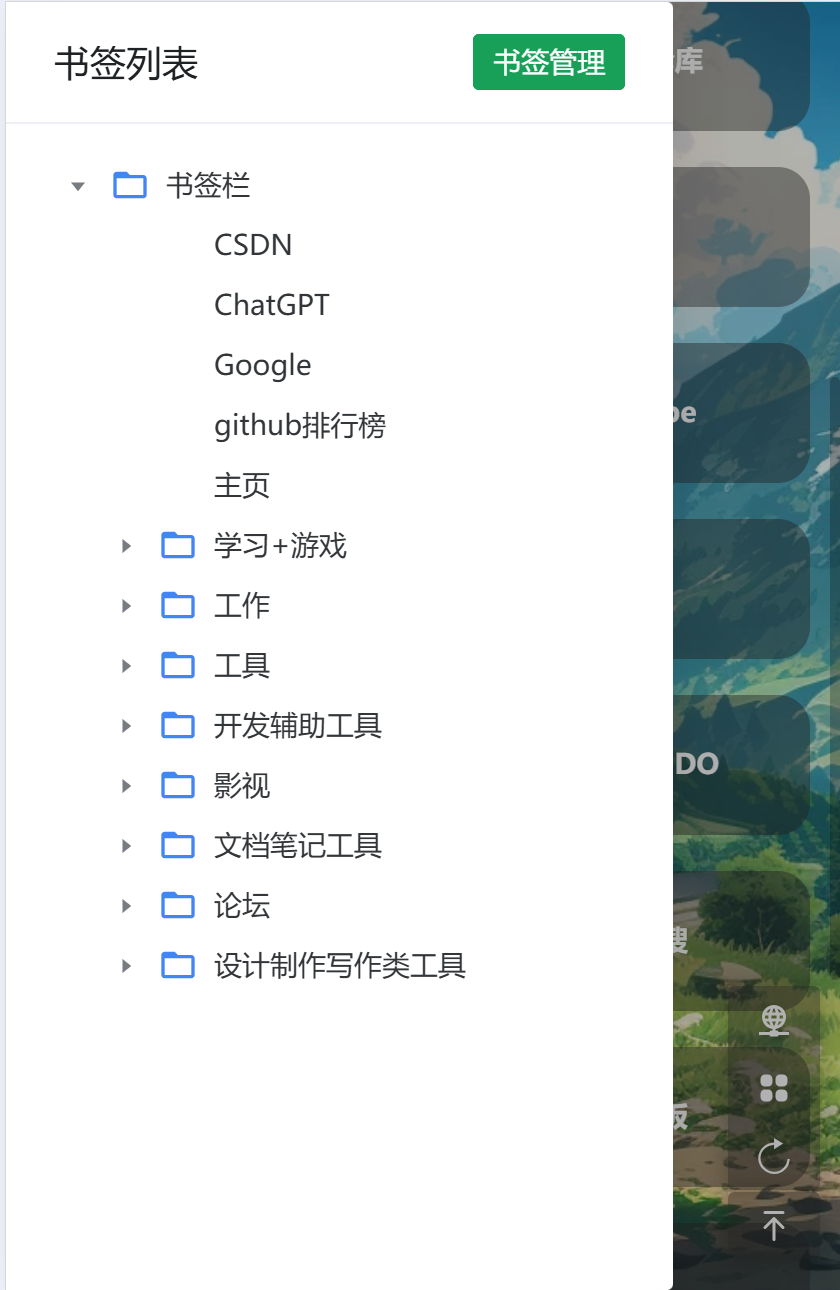
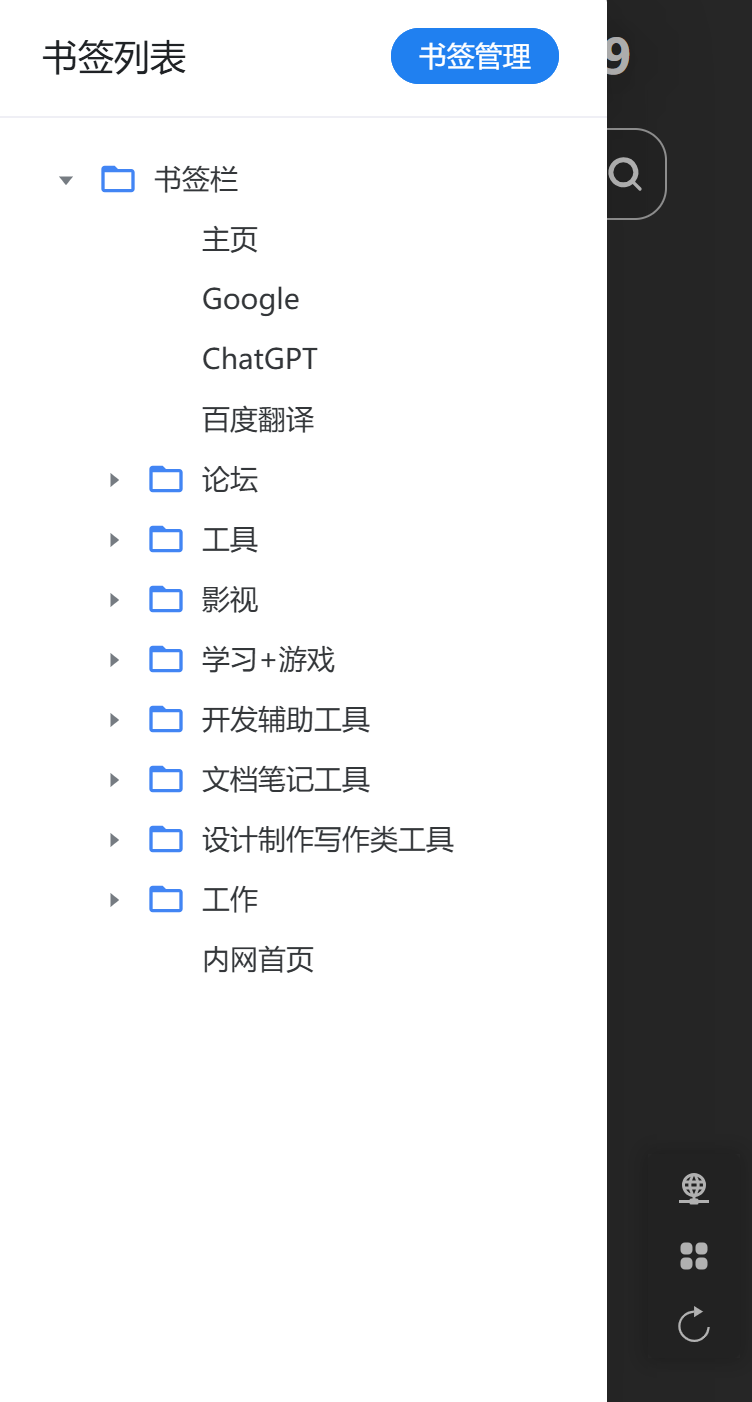
样式优化

diff --git a/src/views/bookmark-manager/index.vue b/src/views/bookmark-manager/index.vue
@@ -6,60 +6,56 @@
 		<!-- 顶部标题栏 -->
 		<div class="p-4 border-b flex items-center justify-between bg-gray-50 dark:bg-gray-800 border-gray-200 dark:border-gray-700 relative">
 			<!-- 移动端左栏展开按钮 -->
-			<NButton
+			<div
 				v-if="isMobile"
 				@click="togglePanel"
-				type="primary"
-				ghost
-				size="small"
-				class="flex items-center gap-1 text-blue-600 hover:bg-blue-100 transition-colors border border-blue-200"
+				class="flex items-center justify-center w-10 h-10 rounded-full bg-transparent text-gray-700 dark:text-white cursor-pointer transition-all hover:bg-gray-100 dark:hover:bg-gray-700"
 			>
-				<svg xmlns="http://www.w3.org/2000/svg" class="h-4 w-4" fill="none" viewBox="0 0 24 24" stroke="currentColor">
+				<svg xmlns="http://www.w3.org/2000/svg" class="h-6 w-6" fill="none" viewBox="0 0 24 24" stroke="currentColor">
 					<path stroke-linecap="round" stroke-linejoin="round" stroke-width="2" d="M4 6h16M4 12h16M4 18h16" />
 				</svg>
-			</NButton>
+			</div>
 
-			<NButton
+			<div
 				@click="goBackToHome"
-				type="primary"
-				ghost
-				size="small"
-				class="flex items-center gap-1 text-blue-600 hover:bg-blue-100 transition-colors border border-blue-200"
+				class="flex items-center justify-center w-10 h-10 rounded-full bg-transparent text-gray-700 dark:text-white cursor-pointer transition-all hover:bg-gray-100 dark:hover:bg-gray-700"
 			>
-				<svg xmlns="http://www.w3.org/2000/svg" class="h-4 w-4" fill="none" viewBox="0 0 24 24" stroke="currentColor">
+				<svg xmlns="http://www.w3.org/2000/svg" class="h-6 w-6" fill="none" viewBox="0 0 24 24" stroke="currentColor">
 					<path stroke-linecap="round" stroke-linejoin="round" stroke-width="2" d="M15 19l-7-7 7-7" />
 				</svg>
-				{{ t('bookmarkManager.back') }}
-			</NButton>
+			</div>
 
 			<h1 class="text-xl font-bold text-gray-800 dark:text-white flex-1 text-center">{{ t('bookmarkManager.management') }}</h1>
 
-			<NButton
-				@click="createNewBookmark"
-				type="primary"
-				ghost
-				size="small"
-				class="flex items-center gap-1 text-purple-600 hover:bg-purple-100 transition-colors border border-purple-200"
-			>
-				<svg xmlns="http://www.w3.org/2000/svg" class="h-4 w-4" fill="none" viewBox="0 0 24 24" stroke="currentColor">
-					<path stroke-linecap="round" stroke-linejoin="round" stroke-width="2" d="M12 4v16m8-8H4" />
-				</svg>
-				{{ t('bookmarkManager.create') }}
-			</NButton>
-
-			<NButton
-				@click="triggerImportBookmarks"
-				type="success"
-				ghost
-				size="small"
-				:loading="uploadLoading"
-				class="flex items-center gap-1 text-green-600 hover:bg-green-100 transition-colors border border-green-200"
-			>
-				<svg xmlns="http://www.w3.org/2000/svg" class="h-4 w-4" fill="none" viewBox="0 0 24 24" stroke="currentColor">
-					<path stroke-linecap="round" stroke-linejoin="round" stroke-width="2" d="M4 16v1a3 3 0 003 3h10a3 3 0 003-3v-1m-4-4l-4 4m0 0l-4-4m4 4V4" />
-				</svg>
-				{{ t('bookmarkManager.importBookmarks') }}
-			</NButton>
+			<!-- 自定义下拉菜单 -->
+			<div class="relative custom-dropdown">
+				<div
+					class="flex items-center justify-center w-10 h-10 rounded-full bg-transparent text-gray-700 dark:text-white cursor-pointer transition-all hover:bg-gray-100 dark:hover:bg-gray-700 mr-2"
+					@click="isDropdownOpen = !isDropdownOpen"
+				>
+					<svg xmlns="http://www.w3.org/2000/svg" class="h-6 w-6" fill="none" viewBox="0 0 24 24" stroke="currentColor">
+						<path stroke-linecap="round" stroke-linejoin="round" stroke-width="2" d="M12 5v.01M12 12v.01M12 19v.01M12 6a1 1 0 110-2 1 1 0 010 2zm0 7a1 1 0 110-2 1 1 0 010 2zm0 7a1 1 0 110-2 1 1 0 010 2z" />
+					</svg>
+				</div>
+				<!-- 下拉菜单内容 -->
+				<div
+					v-if="isDropdownOpen"
+					class="absolute right-0 mt-2 w-48 bg-white dark:bg-gray-800 text-gray-700 dark:text-white rounded-md shadow-lg py-1 z-[100000]"
+				>
+					<button
+						class="block px-4 py-2 text-sm hover:bg-gray-100 dark:hover:bg-gray-700 w-full text-left"
+						@click.stop="createNewBookmark(); isDropdownOpen = false"
+					>
+						{{ t('bookmarkManager.create') }}
+					</button>
+					<button
+						class="block px-4 py-2 text-sm hover:bg-gray-100 dark:hover:bg-gray-700 w-full text-left"
+						@click.stop="triggerImportBookmarks(); isDropdownOpen = false"
+					>
+						{{ t('bookmarkManager.importBookmarks') }}
+					</button>
+				</div>
+			</div>
 
 			<!-- 隐藏的文件输入框 -->
 			<input
@@ -112,7 +108,7 @@
 
 			<!-- 右侧书签列表 -->
 		<div class="flex-1 flex flex-col overflow-hidden">
-			<div class="p-2 border-b flex flex-col bg-white dark:bg-gray-800">
+			<div class="sticky top-0 z-10 p-2 border-b flex flex-col bg-white dark:bg-gray-800">
 					<!-- 面包屑导航 -->
 				<div class="flex items-center text-sm mb-2 text-gray-600 dark:text-gray-400">
 					<span v-for="(crumb, index) in currentPath" :key="index"
@@ -122,13 +118,15 @@
 						<span v-if="index < currentPath.length - 1" class="mx-1">/</span>
 					</span>
 				</div>
-				<n-input
-					v-model:value="searchQuery"
-					:placeholder="t('bookmarkManager.searchPlaceholder')"
-					clearable
-					@input="handleSearch"
-					class="bg-white dark:bg-gray-800 text-gray-800 dark:text-white"
-				/>
+				<div class="flex-1 rounded-full overflow-hidden border-2 border-gray-200 dark:border-gray-600 bg-white dark:bg-gray-800">
+					<n-input
+						v-model:value="searchQuery"
+						:placeholder="t('bookmarkManager.searchPlaceholder')"
+						clearable
+						@input="handleSearch"
+						class="w-full bg-transparent text-gray-800 dark:text-white bookmark-search-input"
+					/>
+				</div>
 			</div>
 
 				<!-- 书签列表 -->
@@ -139,7 +137,7 @@
 						</div>
 
 						<div
-								v-for="item in allItems.filter(item => String(item.folderId || '0') === selectedFolder)"
+								v-for="item in filteredBookmarks"
 								:key="item.id"
 	class="flex items-center justify-between border border-gray-300 dark:border-gray-700 p-2 rounded hover:bg-gray-50 dark:hover:bg-gray-700 cursor-pointer bg-white dark:bg-gray-800"
 	@contextmenu.prevent="openContextMenu($event, item)"
@@ -174,9 +172,9 @@
 				<div v-if="isCreateMode" class="mb-4">
 					<label class="block mb-2 text-gray-800 dark:text-white">{{ t('bookmarkManager.type') }}</label>
 					<select
-						v-model="bookmarkType"
-						class="w-full px-3 py-2 border border-gray-300 rounded-md dark:text-white"
-					>
+					v-model="bookmarkType"
+					class="w-full px-3 py-2 border border-gray-300 rounded-md bg-white dark:bg-gray-700 text-gray-800 dark:text-white"
+				>
 						<option value="bookmark">{{ t('bookmarkManager.bookmark') }}</option>
 						<option value="folder">{{ t('bookmarkManager.folder') }}</option>
 					</select>
@@ -184,22 +182,22 @@
 				<div class="mb-4">
 					<label class="block mb-2 text-gray-800 dark:text-white">{{ t('bookmarkManager.title') }}</label>
 					<input
-						v-model="currentEditBookmark.title"
-						class="w-full px-3 py-2 border border-gray-300 rounded-md dark:text-white"
-						:placeholder="t('bookmarkManager.title')"
-					/>
+				v-model="currentEditBookmark.title"
+				class="w-full px-3 py-2 border border-gray-300 rounded-md bg-white dark:bg-gray-700 text-gray-800 dark:text-white"
+				:placeholder="t('bookmarkManager.title')"
+			/>
 				</div>
 				<div v-if="(!isCreateMode && !currentBookmark?.isFolder) || (isCreateMode && bookmarkType === 'bookmark')" class="mb-4">
 					<label class="block mb-2 text-gray-800 dark:text-white">{{ t('bookmarkManager.url') }}</label>
 					<input
-						v-model="currentEditBookmark.url"
-						class="w-full px-3 py-2 border border-gray-300 rounded-md dark:text-white"
-						:placeholder="t('bookmarkManager.enterUrl')"
-					/>
+				v-model="currentEditBookmark.url"
+				class="w-full px-3 py-2 border border-gray-300 rounded-md bg-white dark:bg-gray-700 text-gray-800 dark:text-white"
+				:placeholder="t('bookmarkManager.enterUrl')"
+			/>
 				</div>
 				<div class="mb-4">
 					<label class="block mb-2 text-gray-800 dark:text-white">{{ t('bookmarkManager.parentFolder') }}</label>
-					<select v-model="currentEditBookmark.folderId" class="w-full px-3 py-2 border border-gray-300 rounded-md dark:text-white">
+					<select v-model="currentEditBookmark.folderId" class="w-full px-3 py-2 border border-gray-300 rounded-md bg-white dark:bg-gray-700 text-gray-800 dark:text-white">
 						<option v-for="folder in allFolders" :key="folder.value" :value="folder.value">{{ folder.value === '0' ? t('bookmarkManager.rootDirectory') : folder.label }}</option>
 					</select>
 				</div>
@@ -214,7 +212,7 @@
 		<div
 			v-if="isContextMenuOpen"
 			:style="contextMenuStyle"
-			class="fixed bg-white dark:bg-gray-800 text-gray-700 dark:text-white shadow-lg rounded-md py-1 z-50 w-40 context-menu border border-gray-200 dark:border-gray-700"
+			class="fixed bg-white dark:bg-gray-800 text-gray-700 dark:text-white shadow-lg py-1 z-50 w-40 context-menu border border-gray-200 dark:border-gray-700"
 			@contextmenu.prevent.stop
 		>
 			<div v-if="!currentBookmark?.isFolder" @click="handleEditBookmark" class="px-4 py-2 hover:bg-gray-100 dark:hover:bg-gray-700 cursor-pointer">{{ t('bookmarkManager.edit') }}</div>
@@ -227,7 +225,7 @@
 import { ref, computed, onMounted, onUnmounted, h, watch, nextTick } from 'vue'
 import FolderOpenIcon from '@/assets/svg-icons/icon_folder_open.svg'
 // 不再直接导入SVG文件，使用内联方式
-import { NTree, NInput, NButton, useMessage } from 'naive-ui'
+import { NTree, NInput, useMessage } from 'naive-ui'
 import { useRouter } from 'vue-router'
 import { getList as getBookmarksList, add as addBookmark, update, deletes, addMultiple as addMultipleBookmarks } from '@/api/panel/bookmark'
 import { t } from '@/locales'
@@ -283,6 +281,8 @@ function collapsePanel() {
 		showLeftPanel.value = false
 	}, 300) // 等待动画完成再隐藏
 }
+
+
 
 // 开始调整大小
 function startResize(e: MouseEvent) {
@@ -387,18 +387,14 @@ const filteredBookmarks = computed(() => {
 	// 先获取所有项目（书签和文件夹）
 	let items = allItems.value
 
-	// 确保选中的文件夹是根目录'0'
-	const targetFolderId = '0' // 直接使用根目录ID，不依赖selectedFolder
-
-	// 调试输出前10个项目的folderId
-
-	// 强制按根目录进行过滤
-	items = items.filter(item => {
-		const itemFolderId = String(item.folderId || '0') // 确保folderId存在
-		const isMatch = itemFolderId === targetFolderId
-
-		return isMatch
-	})
+	// 当没有搜索查询时，按当前选中的文件夹过滤；有搜索时显示所有文件夹的内容
+	if (!searchQuery.value.trim()) {
+		const targetFolderId = selectedFolder.value || '0'
+		items = items.filter(item => {
+			const itemFolderId = String(item.folderId || '0') // 确保folderId存在
+			return itemFolderId === targetFolderId
+		})
+	}
 
 
 	// 应用搜索过滤
@@ -537,6 +533,9 @@ const isContextMenuOpen = ref(false);
 const contextMenuX = ref(0);
 const contextMenuY = ref(0);
 const currentBookmark = ref<(Bookmark & { isFolder?: boolean }) | null>(null);
+
+// 右上角菜单相关状态
+const isDropdownOpen = ref(false);
 
 // 树组件引用
 const treeRef = ref<InstanceType<typeof NTree> | null>(null);
@@ -724,10 +723,11 @@ const renderTreeLabel = ({ option }: { option: any }) => {
 function handleGlobalClick(event: MouseEvent) {
 	const path = event.composedPath() as HTMLElement[]
 	const clickedInsideMenu = path.some(
-		(el) => el.classList && el.classList.contains('context-menu')
+		(el) => el.classList && (el.classList.contains('context-menu') || el.closest('.custom-dropdown'))
 	)
 	if (!clickedInsideMenu) {
 		closeContextMenu()
+		isDropdownOpen.value = false
 	}
 }
 
@@ -1550,11 +1550,16 @@ onUnmounted(() => {
 
 </script>
 
-<style>
+<style scoped>
 .context-menu {
-position: fixed !important;
-z-index: 99999 !important;
-background-color: white;
+    position: fixed !important;
+    z-index: 99999 !important;
+    border-radius: 0.375rem !important;
+    border-right: 1px solid #e5e7eb !important;
+}
+
+.dark .context-menu {
+  border-right: 1px solid #4a5568 !important;
 }
 
 
@@ -1565,4 +1570,26 @@ background-color: white;
 	box-shadow: 0 4px 12px rgba(0,0,0,0.1);
 	transition: width 0.3s ease-in-out, transform 0.3s ease-in-out;
 }
+
+    /* 移除输入组件根元素的边框 */
+    .bookmark-search-input.n-input {
+      border: none !important;
+      box-shadow: none !important;
+      outline: none !important;
+    }
+    /* 移除内部输入组件的所有边框、阴影和圆角 */
+    .bookmark-search-input.n-input :deep(*) {
+      border: none !important;
+      outline: none !important;
+      box-shadow: none !important;
+      border-radius: 0 !important;
+    }
+    /* 确保正确的布局 */
+    .bookmark-search-input.n-input :deep(.n-input__inner),
+    .bookmark-search-input.n-input :deep(.n-input__input-wrap) {
+      overflow: hidden !important;
+      width: 100% !important;
+      height: 100% !important;
+    }
+
 </style>

diff --git a/src/views/home/index.vue b/src/views/home/index.vue
@@ -795,7 +795,7 @@ return h('span', {}, displayText);
 				<template #header>
 					<div class="flex items-center justify-between w-full">
 						<span class="text-lg font-medium">{{ t('bookmarkManager.bookmarkList') }}</span>
-						<NButton type="primary" size="small" @click="navigateToBookmarkManager">
+						<NButton type="info" size="small" round @click="navigateToBookmarkManager">
 							{{ t('bookmarkManager.management') }}
 						</NButton>
 					</div>
